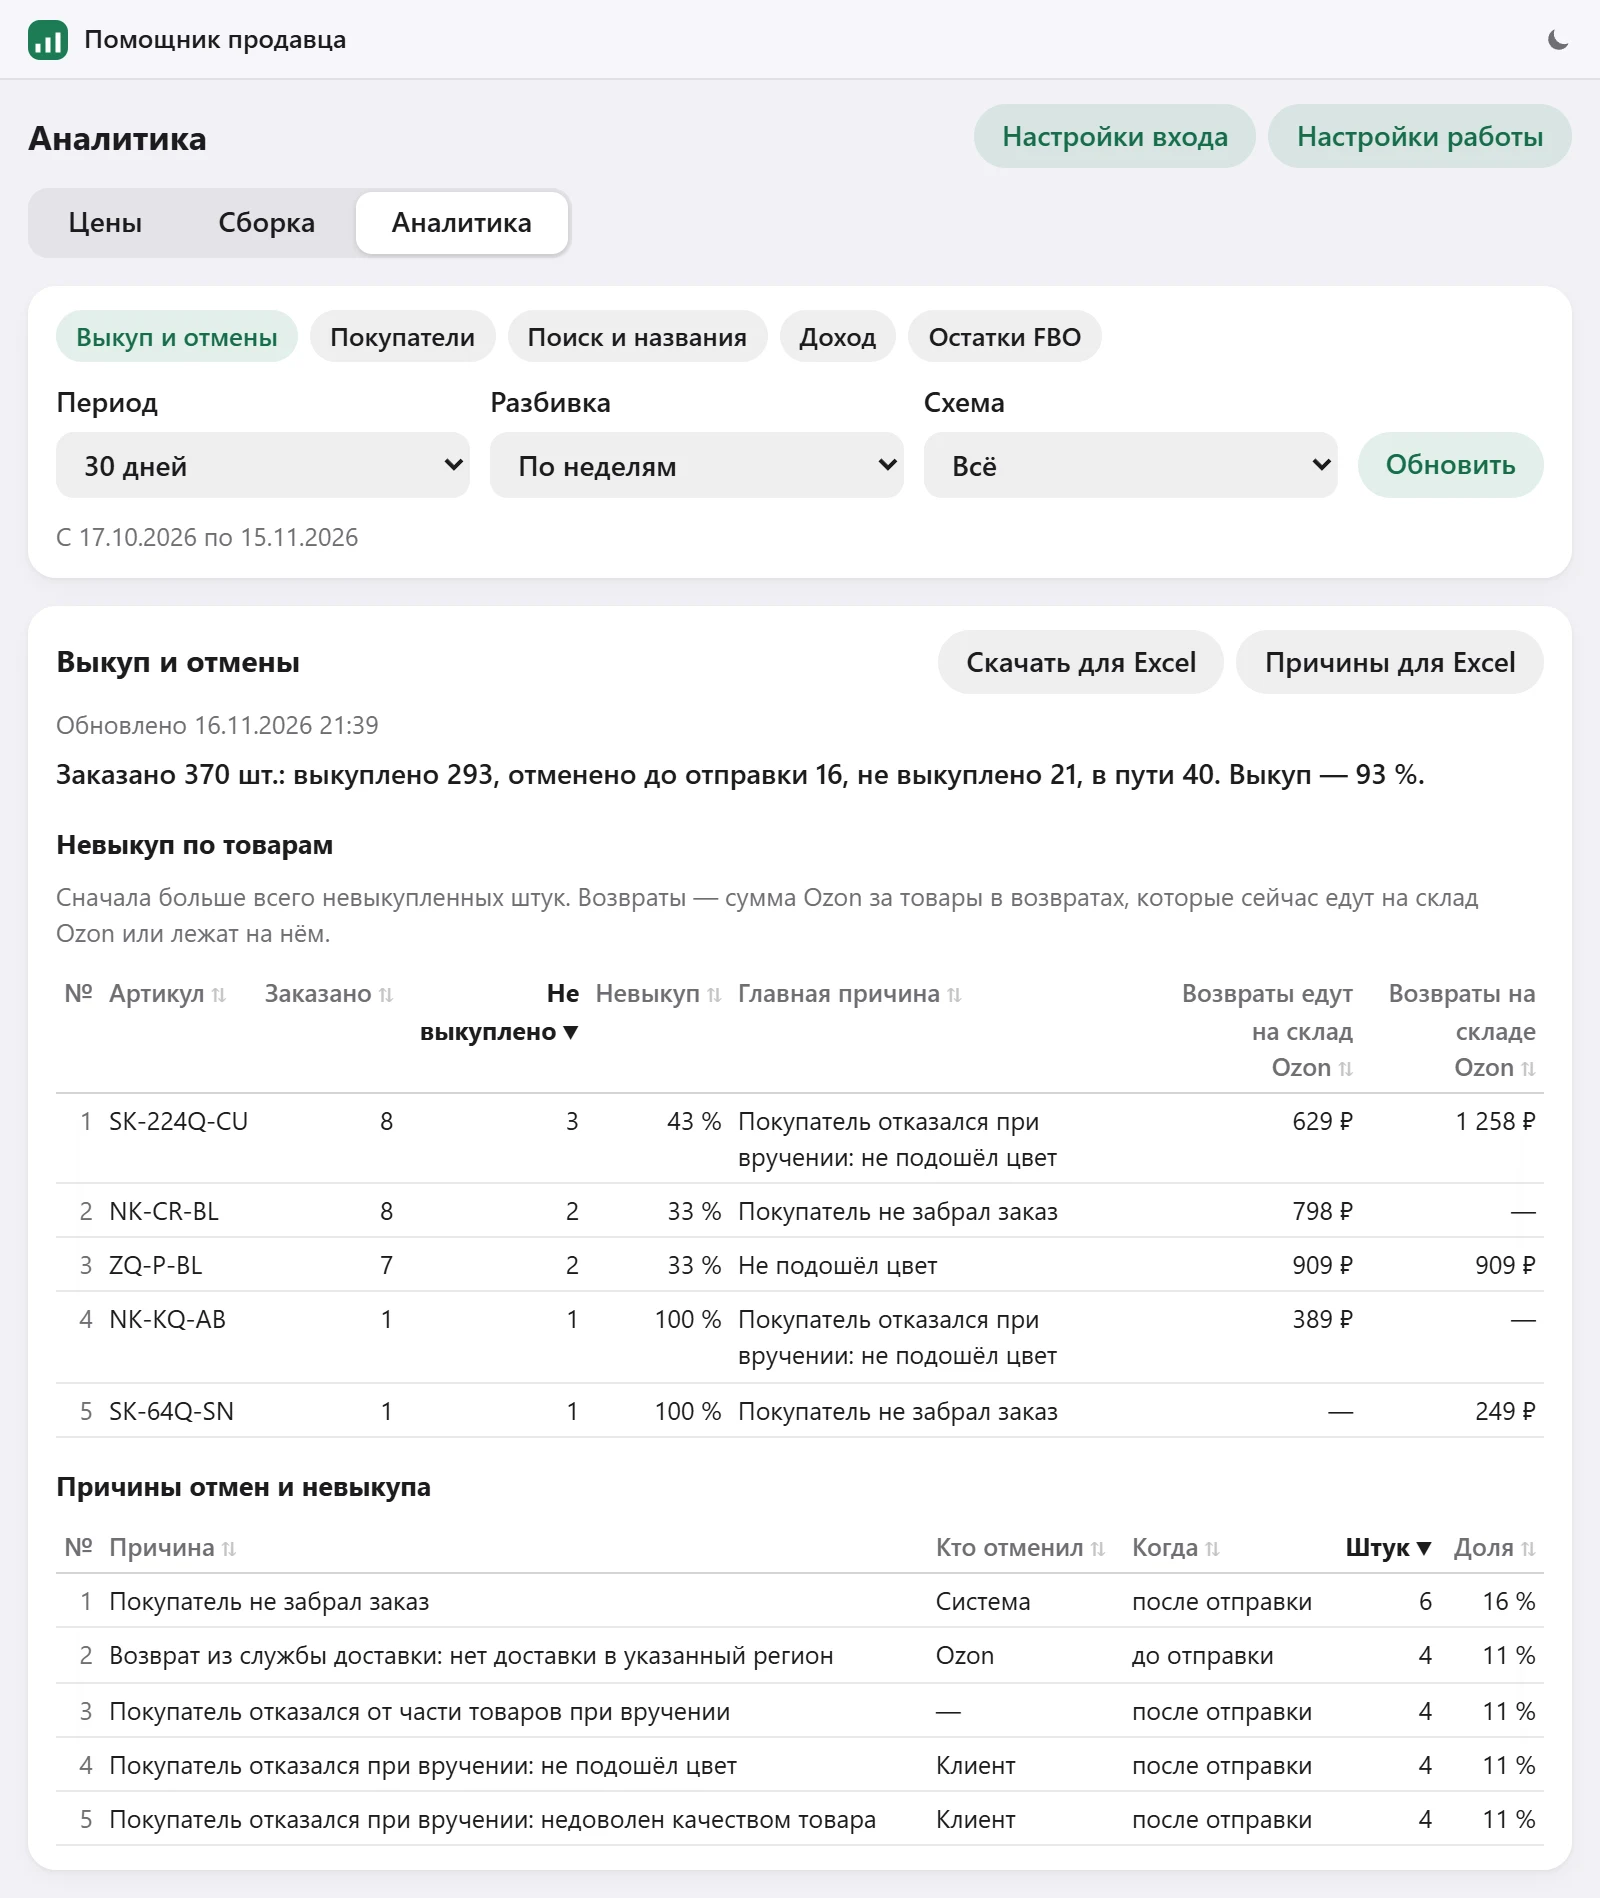
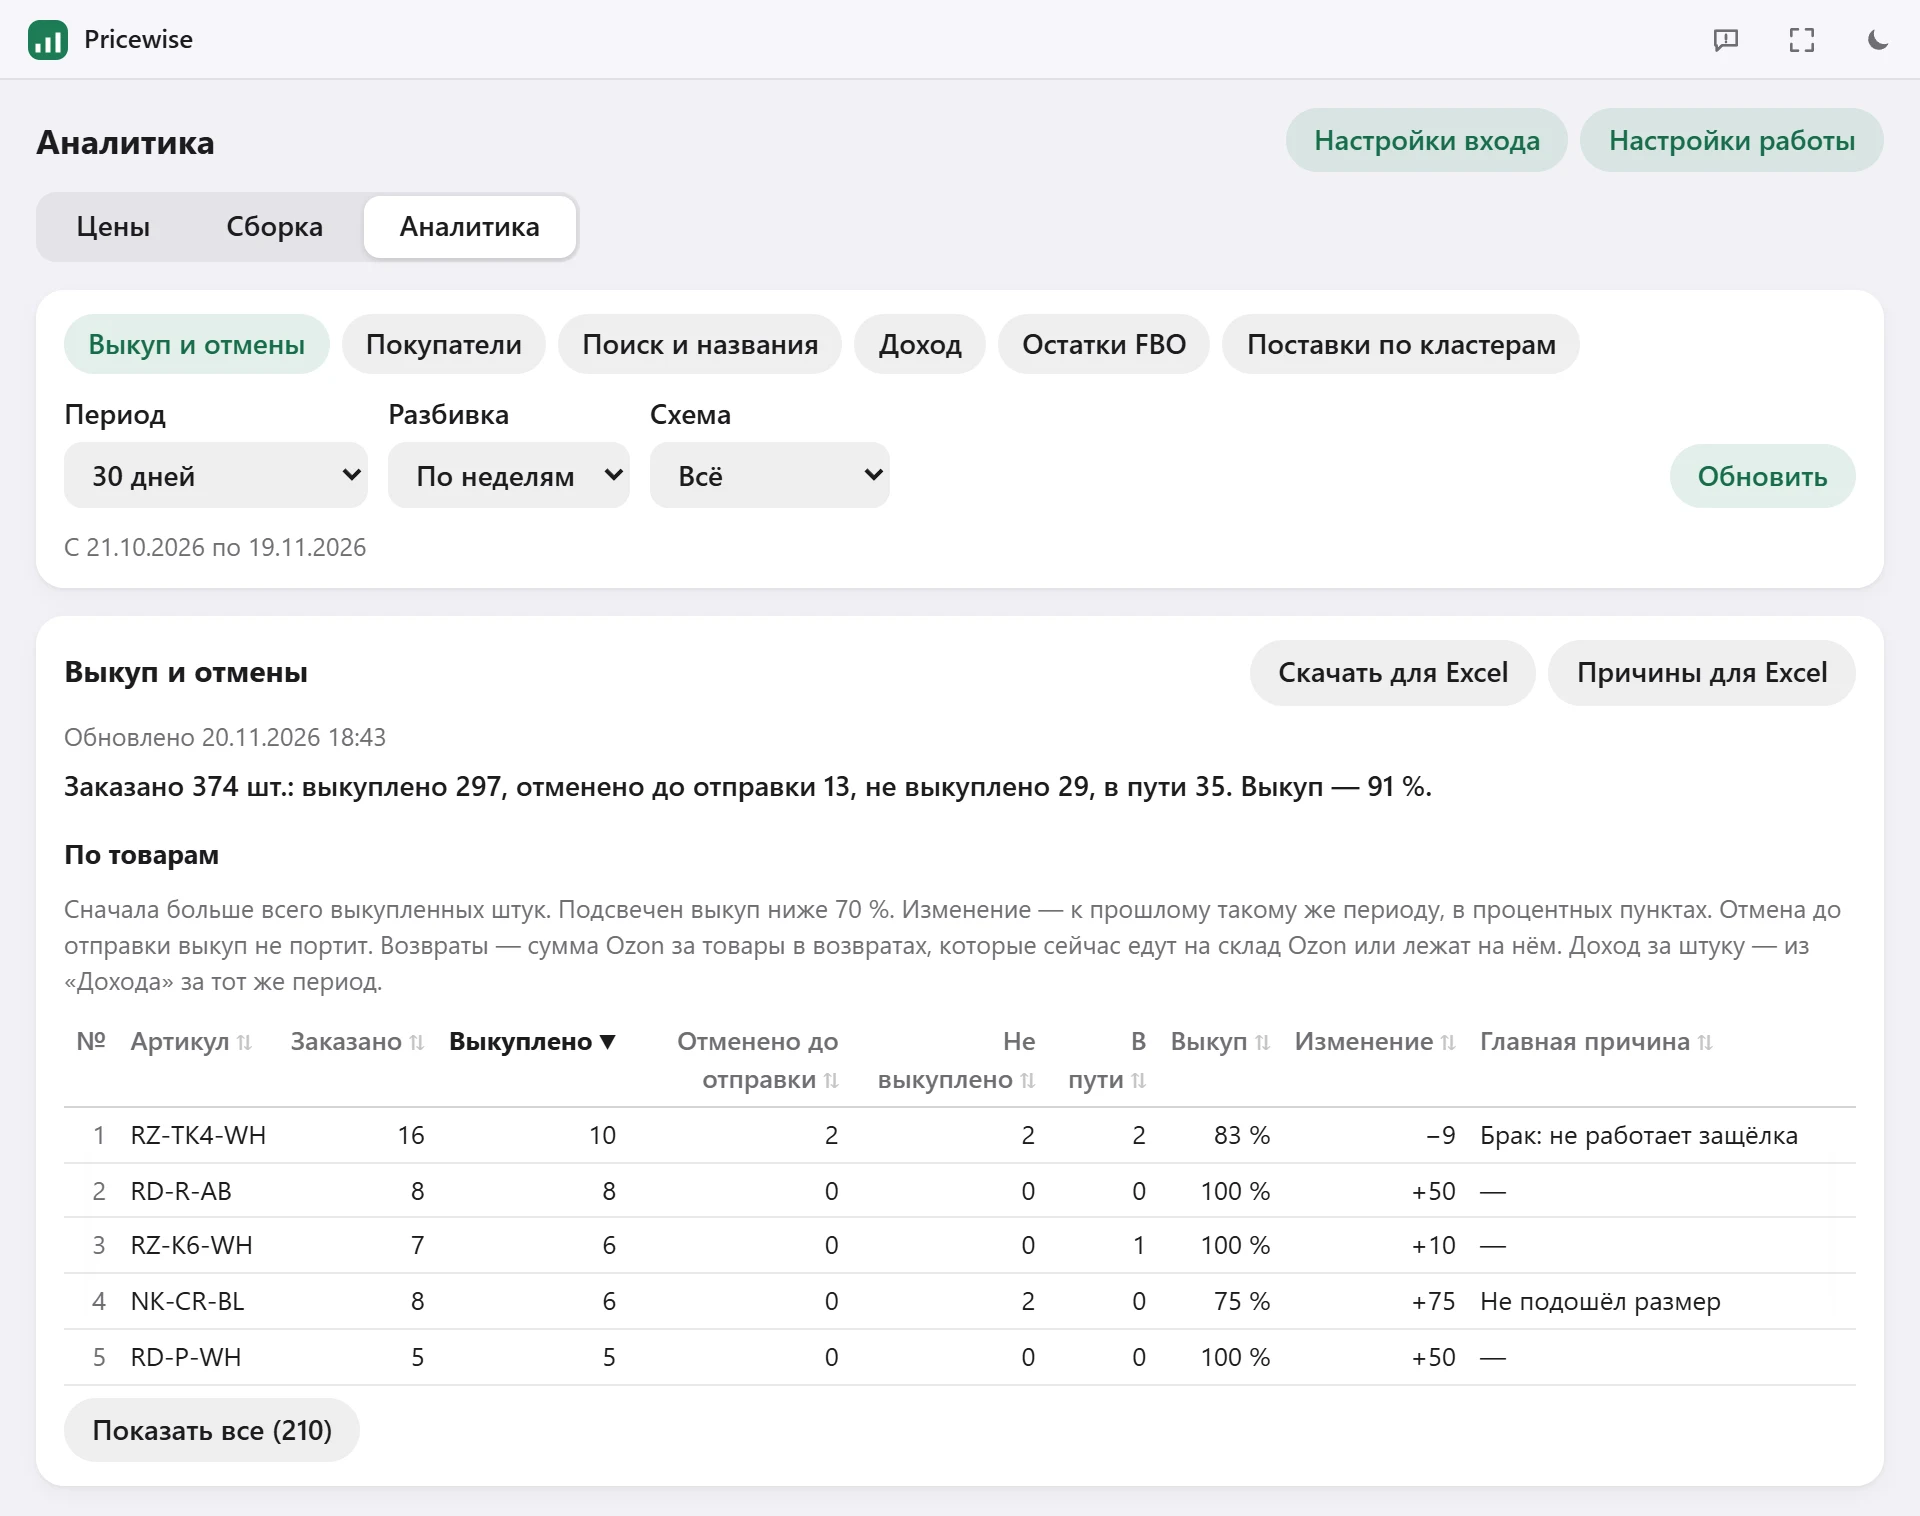
Снимки 1.2.8: новое название расширения Pricewise, «Выкуп и отмены» с одной таблицей товаров

diff --git a/index.html b/index.html
@@ -64,14 +64,14 @@
       <p class="feature text"><strong>Два режима.</strong> Цены меняются автоматически или после вашего подтверждения. Во втором режиме вы видите список изменений с причинами и отмечаете, что применить.</p>
     </div>
     <figure class="shot">
-      <img src="images/ad-prices.webp?v=8" width="1920" height="2160" loading="lazy" decoding="async" alt="Скриншот расширения: список цен, ожидающих подтверждения.">
+      <img src="images/ad-prices.webp?v=9" width="1920" height="2160" loading="lazy" decoding="async" alt="Скриншот расширения: список цен, ожидающих подтверждения.">
       <figcaption>Список изменений в режиме с подтверждением: вы отмечаете строки и нажимаете «Применить отмеченные». Данные на снимках условные.</figcaption>
     </figure>
   </div>
 
   <div class="feature-showcase">
     <figure class="shot">
-      <img src="images/ad-journal.webp?v=8" width="1920" height="764" loading="lazy" decoding="async" alt="Скриншот журнала изменений расширения.">
+      <img src="images/ad-journal.webp?v=9" width="1920" height="1704" loading="lazy" decoding="async" alt="Скриншот журнала изменений расширения.">
       <figcaption>Журнал изменений: артикул, старая и новая цена, причина и итог.</figcaption>
     </figure>
     <div class="feature-copy">
@@ -85,14 +85,14 @@
       <p class="feature text"><strong>Ненадёжные покупатели.</strong> Ненадёжным считается покупатель, который за год выкупил не больше 20 % заказов. Порог меняется в настройках. Заказы таких покупателей видны на странице «Сборка» ещё до того, как вы их собрали. В те же часы, что и проверки цен, расширение раз в 30 минут проверяет новые заказы и присылает уведомление Chrome. Историю покупателя можно скачать файлом для обращения в поддержку Ozon.</p>
     </div>
     <figure class="shot">
-      <img src="images/ad-assembly.webp?v=8" width="1920" height="2160" loading="lazy" decoding="async" alt="Скриншот страницы сборки заказов FBS в расширении.">
+      <img src="images/ad-assembly.webp?v=9" width="1920" height="2160" loading="lazy" decoding="async" alt="Скриншот страницы сборки заказов FBS в расширении.">
       <figcaption>Страница «Сборка»: сверху заказы ненадёжных покупателей, ниже отправления «Готовы к отгрузке» по порядку артикулов. Справа крупный код с этикетки маркетплейса.</figcaption>
     </figure>
   </div>
 
   <div class="feature-showcase">
     <figure class="shot">
-      <img src="images/ad-picklist.webp?v=8" width="1920" height="2715" loading="lazy" decoding="async" alt="Лист подбора с фото товаров, артикулами, количеством и кодами этикеток.">
+      <img src="images/ad-picklist.webp?v=9" width="1920" height="2715" loading="lazy" decoding="async" alt="Лист подбора с фото товаров, артикулами, количеством и кодами этикеток.">
       <figcaption>Лист подбора для печати. Строки идут в том же порядке, что и этикетки. Если товаров больше одного, количество напечатано на чёрной плашке.</figcaption>
     </figure>
     <div class="feature-copy">
@@ -106,13 +106,13 @@
       <p class="feature text"><strong>Поиск и названия.</strong> Запросы покупателей по товарам, контент-рейтинг и подсказки к названиям.</p>
     </div>
     <figure class="shot">
-      <img src="images/ad-analytics-buyout.webp?v=8" width="1600" height="1976" loading="lazy" decoding="async" alt="Отчёт по выкупу: выкупленные и невыкупленные товары, отмены и причины">
+      <img src="images/ad-analytics-buyout.webp?v=9" width="1920" height="1516" loading="lazy" decoding="async" alt="Отчёт по выкупу: выкупленные и невыкупленные товары, отмены и причины">
       <figcaption>Выкуп, отмены до отправки, причины и показатели по товарам.</figcaption>
     </figure>
   </div>
   <div class="feature-showcase">
     <figure class="shot">
-      <img src="images/ad-analytics-income.webp?v=8" width="1600" height="2588" loading="lazy" decoding="async" alt="Отчёт о доходе: прогноз по заказам в пути, налог, начисления и прибыль по товарам">
+      <img src="images/ad-analytics-income.webp?v=9" width="1920" height="2984" loading="lazy" decoding="async" alt="Отчёт о доходе: прогноз по заказам в пути, налог, начисления и прибыль по товарам">
       <figcaption>Прогноз по заказам в пути, налог УСН, начисления и прибыль по товарам.</figcaption>
     </figure>
     <div class="feature-copy">
